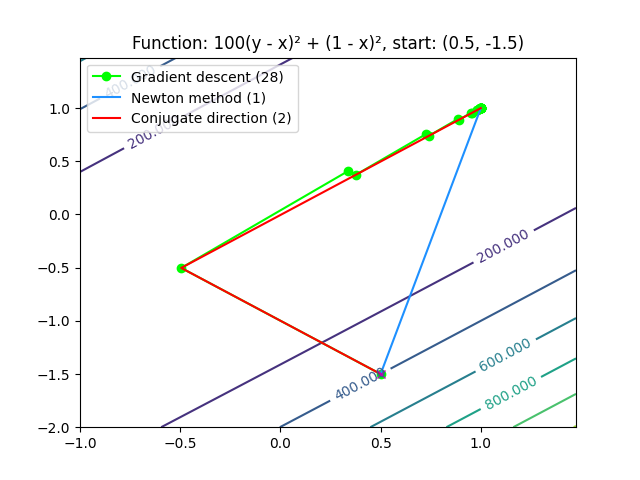
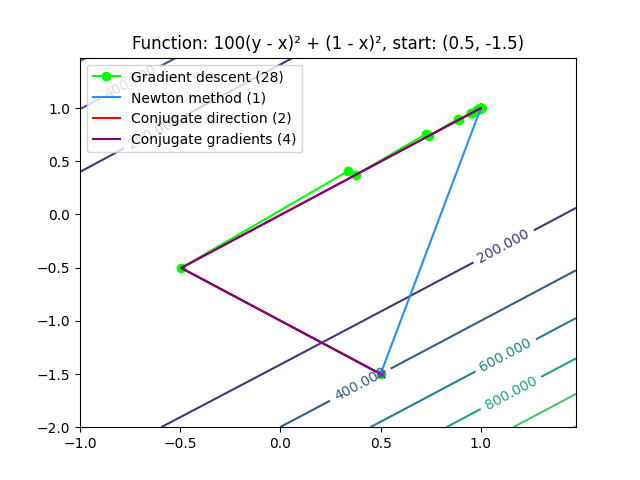
Add 1 more function for 4th task

diff --git a/lab2/src/comparison/trajectory_demo.py b/lab2/src/comparison/trajectory_demo.py
@@ -7,12 +7,34 @@ from lab1.src.grad.grad_descent import gradient_descent
 from lab1.src.grad.stop_criteria import StopCriteria
 
 from lab2.src.methods.newton_method import newton_method
-from lab2.src.methods.conjugate_method import conjugate_direction_method
+from lab2.src.methods.conjugate_method import conjugate_direction_method, conjugate_gradient_method
 from lab2.src.comparison.compare_methods import (
     quadratic_function,
     quadratic_function_grad,
-    quadratic_function_hess,
+    quadratic_function_hess
 )
+
+
+def simple_quadratic_function(x: np.ndarray):
+    return x[0] ** 2 - x[0] * x[1] + 2 * x[1] ** 2
+
+
+def simple_quadratic_function_grad(x: np.ndarray):
+    return np.array(
+        [
+            2 * x[0] - x[1],
+            - x[0] + 4 * x[1]
+        ], dtype="float64"
+    )
+
+
+def simple_quadratic_function_hess(_x: np.ndarray):
+    return np.array(
+        [
+            [2, -1],
+            [-1, 4]
+        ], dtype="float64"
+    )
 
 
 FUNCTIONS = [
@@ -25,6 +47,16 @@ FUNCTIONS = [
         (0.5, -1.5),  # start
         -1, 1.5,  # x_b, x_b
         -2, 1.5,  # y_a, y_b
+    ),
+    (
+        "x² - xy + 2y²",  # f_str
+        simple_quadratic_function,  # f
+        simple_quadratic_function_grad,  # f_grad
+        simple_quadratic_function_hess,  # f_hess
+        np.array([0, 0], dtype="float64"),  # b
+        (0.5, -0.5),  # start
+        -1, 1,  # x_b, x_b
+        -1, 1,  # y_a, y_b
     )
 ]
 
@@ -74,6 +106,14 @@ def main():
                                            eps=eps)[1]
         plt.plot(*zip(*trajectory), c='r',
                  label=f'Conjugate direction ({iters})')
+
+        trajectory = []
+        iters = conjugate_gradient_method(f, f_grad,
+                                          np.array(start),
+                                          trajectory=trajectory,
+                                          eps=eps)[1]
+        plt.plot(*zip(*trajectory), c='purple',
+                 label=f'Conjugate gradients ({iters})')
 
         plt.plot(*start, 'mx')
         plt.legend()

diff --git a/lab2/src/methods/conjugate_method.py b/lab2/src/methods/conjugate_method.py
@@ -50,7 +50,11 @@ def conjugate_gradient_method(f: Callable[[np.ndarray], float],
                               f_grad: Callable[[np.ndarray], np.ndarray],
                               start: np.ndarray,
                               eps=DEFAULT_EPS,
-                              max_iters=DEFAULT_MAX_ITERS):
+                              max_iters=DEFAULT_MAX_ITERS,
+                              trajectory: Optional[List] = None):
+    if trajectory is not None:
+        trajectory.append(start)
+
     w_prev = (-1) * f_grad(start)
     u_prev = w_prev
     if np.linalg.norm(w_prev) < eps:
@@ -72,5 +76,8 @@ def conjugate_gradient_method(f: Callable[[np.ndarray], float],
         u_prev = u_k
         w_prev = w_k
         k += 1
+
+        if trajectory is not None:
+            trajectory.append(x_prev)
 
     return x_prev, k
